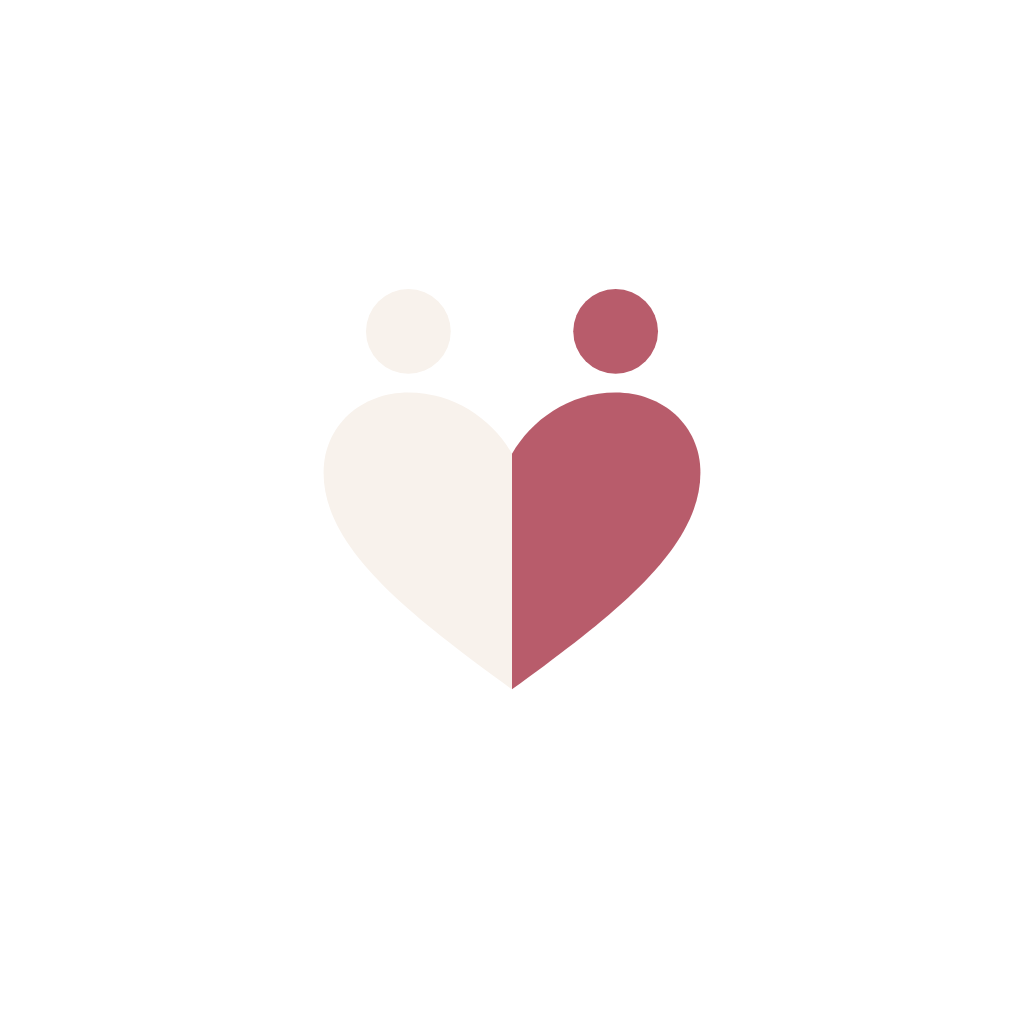
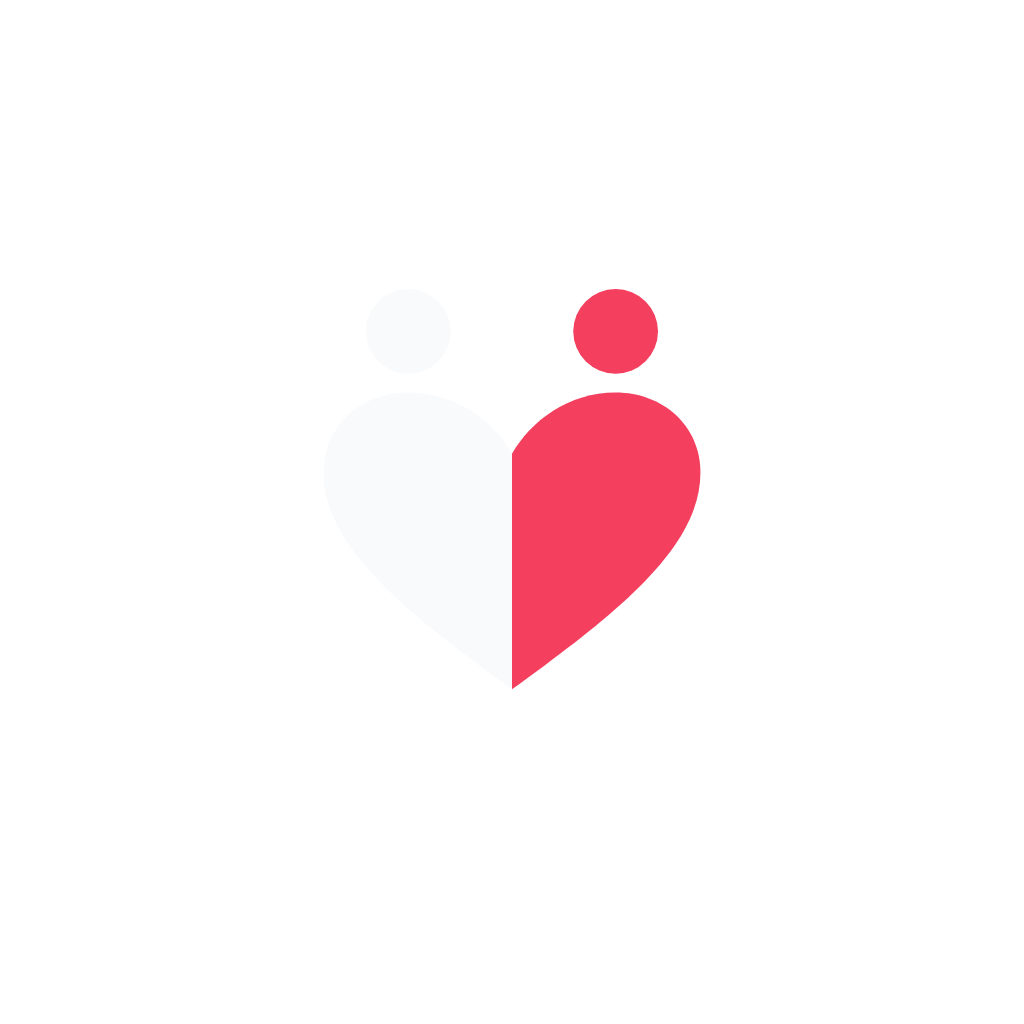
Paleta "Azul profundo" e novo slogan
- theme.ts: azul profundo #0B2545 (principal), azul moderno #1E40AF,
  rosa #F43F5E (destaque), azul claro #E0E7FF, cinza claro #F8FAFC, grafite #1F2937
- Tela de entrada com bloco azul, logo claro e CTA rosa
- Ícone, ícone adaptativo, splash e favicon regenerados no azul
- Slogan: "Pessoas que constroem mais juntas."

Claude-Session: https://claude.ai/code/session_01GeHcTz7jadpzUnfAnvnmB9

Changed region(s): [[0.5, 0.2812, 0.6875, 0.6875]]

diff --git a/apps/mobile/src/components/SwipeDeck.tsx b/apps/mobile/src/components/SwipeDeck.tsx
@@ -73,10 +73,10 @@ export const SwipeDeck = forwardRef<SwipeDeckHandle, Props>(function SwipeDeck({
         >
           <Card c={top} urls={urls} mine={myInterests} />
           <Animated.View style={[styles.stamp, styles.stampLike, { opacity: likeOpacity }]}>
-            <Text style={[styles.stampText, { color: palette.marfim }]}>CURTIR</Text>
+            <Text style={[styles.stampText, { color: palette.claro }]}>CURTIR</Text>
           </Animated.View>
           <Animated.View style={[styles.stamp, styles.stampPass, { opacity: passOpacity }]}>
-            <Text style={[styles.stampText, { color: palette.marfim }]}>PASSAR</Text>
+            <Text style={[styles.stampText, { color: palette.claro }]}>PASSAR</Text>
           </Animated.View>
         </Animated.View>
       ) : null}
@@ -161,34 +161,34 @@ const styles = StyleSheet.create({
   card: { borderRadius: radius.lg, overflow: 'hidden' },
   info: {
     position: 'absolute', left: 0, right: 0, bottom: 0, padding: space.xl, gap: space.xs,
-    backgroundColor: 'rgba(46,14,20,0.66)',
+    backgroundColor: 'rgba(11,37,69,0.66)',
   },
-  name: { color: palette.marfim, fontSize: 30, fontFamily: fonts.display },
-  comp: { color: palette.marfim, fontSize: 14, fontFamily: fonts.medium },
-  highlight: { backgroundColor: palette.marfim, color: palette.vinho, fontFamily: fonts.bold },
-  meta: { color: 'rgba(248,242,236,0.85)', fontSize: 13, fontFamily: fonts.medium },
+  name: { color: palette.claro, fontSize: 30, fontFamily: fonts.display },
+  comp: { color: palette.claro, fontSize: 14, fontFamily: fonts.medium },
+  highlight: { backgroundColor: palette.claro, color: palette.azul, fontFamily: fonts.bold },
+  meta: { color: 'rgba(248,250,252,0.85)', fontSize: 13, fontFamily: fonts.medium },
   reasons: { flexDirection: 'row', flexWrap: 'wrap', gap: space.xs, marginTop: space.xs },
   reason: {
-    color: palette.marfim, fontSize: 12, fontFamily: fonts.semibold, paddingHorizontal: space.sm, paddingVertical: 3,
+    color: palette.claro, fontSize: 12, fontFamily: fonts.semibold, paddingHorizontal: space.sm, paddingVertical: 3,
     borderRadius: radius.pill, borderWidth: 1, borderColor: 'rgba(255,255,255,0.5)', overflow: 'hidden',
   },
   interest: {
-    color: palette.vinho, backgroundColor: 'rgba(248,242,236,0.92)', fontSize: 12, fontFamily: fonts.semibold,
+    color: palette.azul, backgroundColor: 'rgba(248,250,252,0.92)', fontSize: 12, fontFamily: fonts.semibold,
     paddingHorizontal: space.sm + 2, paddingVertical: 4, borderRadius: radius.pill, overflow: 'hidden',
   },
   interestShared: { backgroundColor: palette.rosa, color: palette.white },
-  bio: { color: 'rgba(248,242,236,0.92)', fontSize: 14, fontFamily: fonts.regular, marginTop: space.xs },
+  bio: { color: 'rgba(248,250,252,0.92)', fontSize: 14, fontFamily: fonts.regular, marginTop: space.xs },
   bubble: {
     position: 'absolute', top: space.xl, left: space.lg, right: space.lg, padding: space.md, gap: 2,
-    backgroundColor: palette.marfim, borderRadius: radius.md, borderBottomLeftRadius: 4,
+    backgroundColor: palette.claro, borderRadius: radius.md, borderBottomLeftRadius: 4,
     shadowColor: '#000', shadowOpacity: 0.2, shadowRadius: 8, shadowOffset: { width: 0, height: 3 }, elevation: 4,
   },
   bubbleLabel: { color: palette.rosa, fontSize: 12, fontFamily: fonts.semibold },
-  bubbleText: { color: palette.vinhoEscuro, fontSize: 16, fontFamily: fonts.medium, lineHeight: 21 },
+  bubbleText: { color: palette.grafite, fontSize: 16, fontFamily: fonts.medium, lineHeight: 21 },
   dots: { position: 'absolute', top: space.md, left: space.md, right: space.md, flexDirection: 'row', gap: 4 },
   dot: { flex: 1, height: 3, borderRadius: 2 },
   stamp: { position: 'absolute', top: 48, borderWidth: 4, borderRadius: radius.sm, paddingHorizontal: space.md, paddingVertical: space.xs },
-  stampLike: { left: 24, borderColor: palette.marfim, backgroundColor: 'rgba(107,30,41,0.85)', transform: [{ rotate: '-14deg' }] },
-  stampPass: { right: 24, borderColor: palette.marfim, backgroundColor: 'rgba(46,14,20,0.7)', transform: [{ rotate: '14deg' }] },
+  stampLike: { left: 24, borderColor: palette.claro, backgroundColor: 'rgba(11,37,69,0.85)', transform: [{ rotate: '-14deg' }] },
+  stampPass: { right: 24, borderColor: palette.claro, backgroundColor: 'rgba(11,37,69,0.7)', transform: [{ rotate: '14deg' }] },
   stampText: { fontSize: 28, fontFamily: fonts.bold, letterSpacing: 2 },
 });

diff --git a/apps/mobile/src/components/MatchModal.tsx b/apps/mobile/src/components/MatchModal.tsx
@@ -32,9 +32,9 @@ export function MatchModal({ who, photoUrl, myPhotoUrl, onChat, onClose }: {
 
         <View style={{ alignSelf: 'stretch', gap: space.md, marginTop: space.md }}>
           <Button title={brand.matchSend} onPress={onChat}
-            style={{ backgroundColor: palette.marfim }} textColor={palette.vinho} />
+            style={{ backgroundColor: palette.claro }} textColor={palette.azul} />
           <Button title={brand.matchContinue} variant="ghost" onPress={onClose}
-            style={{ borderColor: 'rgba(248,242,236,0.45)' }} textColor={palette.marfim} />
+            style={{ borderColor: 'rgba(248,250,252,0.45)' }} textColor={palette.claro} />
         </View>
       </View>
     </Modal>
@@ -43,21 +43,21 @@ export function MatchModal({ who, photoUrl, myPhotoUrl, onChat, onClose }: {
 
 const styles = StyleSheet.create({
   backdrop: {
-    flex: 1, backgroundColor: 'rgba(107,30,41,0.97)', alignItems: 'center', justifyContent: 'center',
+    flex: 1, backgroundColor: 'rgba(11,37,69,0.97)', alignItems: 'center', justifyContent: 'center',
     padding: space.xxl, gap: space.sm,
   },
   photos: { flexDirection: 'row', marginBottom: space.xl, alignItems: 'center' },
   photo: {
-    width: 130, height: 170, borderRadius: radius.md, borderWidth: 4, borderColor: palette.marfim,
-    backgroundColor: palette.vinhoEscuro,
+    width: 130, height: 170, borderRadius: radius.md, borderWidth: 4, borderColor: palette.claro,
+    backgroundColor: palette.grafite,
   },
   badge: {
     position: 'absolute', left: 88, bottom: -26, // centro da dupla de fotos (130 + 130 - 28) / 2 - 28
-    width: 56, height: 56, borderRadius: 28, backgroundColor: palette.vinho,
-    alignItems: 'center', justifyContent: 'center', borderWidth: 3, borderColor: palette.marfim,
+    width: 56, height: 56, borderRadius: 28, backgroundColor: palette.azul,
+    alignItems: 'center', justifyContent: 'center', borderWidth: 3, borderColor: palette.claro,
   },
-  title: { color: palette.marfim, fontSize: 38, fontFamily: fonts.display, textAlign: 'center' },
-  subtitle: { color: palette.marfim, fontSize: 18, fontFamily: fonts.semibold, textAlign: 'center' },
-  cta: { color: 'rgba(248,242,236,0.8)', fontSize: 15, fontFamily: fonts.regular, textAlign: 'center' },
-  common: { color: palette.champanhe, fontSize: 13, fontFamily: fonts.semibold, textAlign: 'center', marginTop: space.sm },
+  title: { color: palette.claro, fontSize: 38, fontFamily: fonts.display, textAlign: 'center' },
+  subtitle: { color: palette.claro, fontSize: 18, fontFamily: fonts.semibold, textAlign: 'center' },
+  cta: { color: 'rgba(248,250,252,0.8)', fontSize: 15, fontFamily: fonts.regular, textAlign: 'center' },
+  common: { color: palette.azulClaro, fontSize: 13, fontFamily: fonts.semibold, textAlign: 'center', marginTop: space.sm },
 });

diff --git a/apps/mobile/src/theme.ts b/apps/mobile/src/theme.ts
@@ -1,52 +1,54 @@
-// Design tokens — identidade ConMatch: vinho, rosa antigo, champanhe e marfim.
+// Design tokens — identidade ConMatch, opção "Azul profundo": confiança, foco e modernidade.
+// Azul profundo como base, rosa como destaque (o lado romântico), azul claro e cinza como fundo.
 // Títulos em Playfair Display, interface em Inter (carregadas em app/_layout.tsx).
 import { useColorScheme } from 'react-native';
 
 export const palette = {
-  vinho: '#6B1E29',        // principal
-  rosa: '#B85C6B',         // rosa antigo
-  champanhe: '#C9A89A',
-  marfim: '#F8F2EC',       // fundo
-  vinhoEscuro: '#2E0E14',  // texto
+  azul: '#0B2545',         // azul profundo — principal
+  azulModerno: '#1E40AF',  // secundária
+  rosa: '#F43F5E',         // destaque
+  azulClaro: '#E0E7FF',    // fundo de chips e áreas de apoio
+  claro: '#F8FAFC',        // cinza claro — superfície / texto sobre azul
+  grafite: '#1F2937',      // texto
   white: '#FFFFFF',
 };
 
 export const light = {
-  bg: palette.marfim,
+  bg: palette.claro,
   surface: palette.white,
-  surfaceAlt: '#F1E6DD',
-  text: palette.vinhoEscuro,
-  textMuted: '#7A5A5F',
-  border: '#E6D6CC',
-  primary: palette.vinho,
-  onPrimary: palette.marfim,
+  surfaceAlt: palette.azulClaro,
+  text: palette.grafite,
+  textMuted: '#4B5563',
+  border: '#D6DEF0',
+  primary: palette.azul,
+  onPrimary: palette.white,
   accent: palette.rosa,
   onAccent: palette.white,
-  chip: '#F3E4E1',
-  onChip: palette.vinho,
-  like: palette.vinho,
-  star: palette.rosa,
-  pass: '#8C7B76',
-  danger: '#B3261E',
+  chip: palette.azulClaro,
+  onChip: palette.azul,
+  like: palette.rosa,
+  star: palette.azul,
+  pass: '#64748B',
+  danger: '#B91C1C',
 };
 
 export const dark: typeof light = {
-  bg: '#1E0A0E',
-  surface: palette.vinhoEscuro,
-  surfaceAlt: '#3A161D',
-  text: palette.marfim,
-  textMuted: '#C9A89A',
-  border: '#4A2028',
-  primary: palette.marfim,
-  onPrimary: palette.vinho,
-  accent: '#D27A88',
-  onAccent: palette.vinhoEscuro,
-  chip: '#4A2028',
-  onChip: palette.marfim,
-  like: '#E59AA6',
-  star: '#D27A88',
-  pass: '#C9A89A',
-  danger: '#F2B8B5',
+  bg: '#061629',
+  surface: palette.azul,
+  surfaceAlt: '#13315C',
+  text: palette.claro,
+  textMuted: '#B6C2DA',
+  border: '#1E3A66',
+  primary: palette.claro,
+  onPrimary: palette.azul,
+  accent: palette.rosa,
+  onAccent: palette.white,
+  chip: '#13315C',
+  onChip: palette.azulClaro,
+  like: palette.rosa,
+  star: palette.azulClaro,
+  pass: '#B6C2DA',
+  danger: '#FCA5A5',
 };
 
 export type Colors = typeof light;

diff --git a/apps/mobile/app/entrar.tsx b/apps/mobile/app/entrar.tsx
@@ -2,10 +2,10 @@ import { useState } from 'react';
 import { Alert, KeyboardAvoidingView, Platform, Pressable, ScrollView, Text, View } from 'react-native';
 import { SafeAreaView } from 'react-native-safe-area-context';
 import { BrandSymbol, Logo } from '@/components/Brand';
-import { Button, Field, H1, P, Screen } from '@/components/ui';
+import { Button, Field, H1, Screen } from '@/components/ui';
 import { supabase } from '@/lib/supabase';
 import { brand } from '@/brand';
-import { font, palette, space, useColors } from '@/theme';
+import { font, palette, radius, space, useColors } from '@/theme';
 
 export default function Entrar() {
   const c = useColors();
@@ -42,10 +42,10 @@ export default function Entrar() {
       <SafeAreaView style={{ flex: 1 }}>
         <KeyboardAvoidingView style={{ flex: 1 }} behavior={Platform.OS === 'ios' ? 'padding' : undefined}>
           <ScrollView contentContainerStyle={{ flexGrow: 1, justifyContent: 'center', padding: space.xl, gap: space.xl }}>
-            <View style={{ gap: space.md }}>
-              <BrandSymbol size={56} left={c.surface} right={palette.rosa} outline={c.primary} />
-              <Logo size={40} />
-              <P muted>{brand.tagline}</P>
+            <View style={{ gap: space.md, backgroundColor: palette.azul, borderRadius: radius.lg, padding: space.xl }}>
+              <BrandSymbol size={56} />
+              <Logo size={40} onDark />
+              <Text style={[font.body, { color: palette.azulClaro, lineHeight: 22 }]}>{brand.tagline}</Text>
             </View>
 
             <View style={{ gap: space.lg }}>
@@ -55,7 +55,7 @@ export default function Entrar() {
               <Field label="Senha" value={password} onChangeText={setPassword} secureTextEntry
                 autoComplete={mode === 'cadastro' ? 'new-password' : 'current-password'}
                 hint={mode === 'cadastro' ? 'Mínimo de 8 caracteres, com maiúscula, minúscula e número.' : undefined} />
-              <Button title={mode === 'cadastro' ? 'Criar conta' : 'Entrar'} onPress={submit} loading={busy} />
+              <Button title={mode === 'cadastro' ? 'Criar conta' : 'Entrar'} onPress={submit} loading={busy} variant="accent" />
               <Pressable accessibilityRole="button" onPress={() => setMode(mode === 'login' ? 'cadastro' : 'login')}>
                 <Text style={[font.body, { color: c.text, textAlign: 'center', textDecorationLine: 'underline' }]}>
                   {mode === 'login' ? 'Ainda não tem conta? Criar conta' : 'Já tem conta? Entrar'}

diff --git a/apps/mobile/src/components/Brand.tsx b/apps/mobile/src/components/Brand.tsx
@@ -8,7 +8,7 @@ import { fonts, palette, useColors } from '@/theme';
 const LEFT = 'M50 92 C28 76 10 62 10 46 C10 36 18 29 28 29 C38 29 46 35 50 42 Z';
 const RIGHT = 'M50 92 C72 76 90 62 90 46 C90 36 82 29 72 29 C62 29 54 35 50 42 Z';
 
-export function BrandSymbol({ size = 32, left = palette.marfim, right = palette.rosa, outline }: {
+export function BrandSymbol({ size = 32, left = palette.claro, right = palette.rosa, outline }: {
   size?: number; left?: string; right?: string; outline?: string;
 }) {
   const stroke = outline ? { stroke: outline, strokeWidth: 3 } : {};
@@ -25,13 +25,13 @@ export function BrandSymbol({ size = 32, left = palette.marfim, right = palette.
 /** "Con" reto + "Match" itálico + símbolo */
 export function Logo({ size = 24, color, onDark }: { size?: number; color?: string; onDark?: boolean }) {
   const c = useColors();
-  const fg = color ?? (onDark ? palette.marfim : c.primary);
+  const fg = color ?? (onDark ? palette.claro : c.primary);
   return (
     <View style={styles.row} accessible accessibilityRole="header" accessibilityLabel={brand.name}>
       <Text style={[styles.word, { color: fg, fontSize: size, fontFamily: fonts.display }]}>Con</Text>
       <Text style={[styles.word, { color: fg, fontSize: size, fontFamily: fonts.displayItalic }]}>Match</Text>
       <View style={{ marginLeft: size * 0.18, marginTop: -size * 0.3 }}>
-        <BrandSymbol size={size * 0.7} left={onDark ? palette.marfim : c.surface} right={palette.rosa}
+        <BrandSymbol size={size * 0.7} left={onDark ? palette.claro : c.surface} right={palette.rosa}
           outline={onDark ? undefined : fg} />
       </View>
     </View>

diff --git a/apps/mobile/app/(tabs)/conexoes.tsx b/apps/mobile/app/(tabs)/conexoes.tsx
@@ -65,7 +65,7 @@ export default function Conexoes() {
 
 const styles = StyleSheet.create({
   card: { flex: 1, aspectRatio: 3 / 4, borderRadius: radius.md, overflow: 'hidden', maxWidth: '48.5%' },
-  caption: { position: 'absolute', left: 0, right: 0, bottom: 0, padding: space.md, backgroundColor: 'rgba(46,14,20,0.6)' },
-  name: { color: palette.marfim, fontSize: 18, fontFamily: fonts.display },
-  comp: { color: 'rgba(248,242,236,0.85)', fontSize: 12, fontFamily: fonts.medium },
+  caption: { position: 'absolute', left: 0, right: 0, bottom: 0, padding: space.md, backgroundColor: 'rgba(11,37,69,0.6)' },
+  name: { color: palette.claro, fontSize: 18, fontFamily: fonts.display },
+  comp: { color: 'rgba(248,250,252,0.85)', fontSize: 12, fontFamily: fonts.medium },
 });

diff --git a/apps/mobile/src/components/StarMessageModal.tsx b/apps/mobile/src/components/StarMessageModal.tsx
@@ -81,7 +81,7 @@ export function StarMessageModal({ who, onSend, onClose }: {
 }
 
 const styles = StyleSheet.create({
-  backdrop: { flex: 1, justifyContent: 'flex-end', backgroundColor: 'rgba(46,14,20,0.55)' },
+  backdrop: { flex: 1, justifyContent: 'flex-end', backgroundColor: 'rgba(11,37,69,0.55)' },
   sheet: {
     borderTopLeftRadius: radius.lg, borderTopRightRadius: radius.lg,
     padding: space.xl, paddingBottom: space.xxl, gap: space.md,

diff --git a/apps/mobile/src/brand.ts b/apps/mobile/src/brand.ts
@@ -1,7 +1,7 @@
 // Marca e textos centralizados — trocar o nome do app é editar este arquivo + app.json.
 export const brand = {
   name: 'ConMatch',
-  tagline: 'Pessoas que compartilham mais.',
+  tagline: 'Pessoas que constroem mais juntas.',
   matchTitle: 'Deu ConMatch!',
   matchSubtitle: 'Vocês querem se conhecer.',
   matchCta: 'Ambições parecidas. Agora é com vocês.',

diff --git a/brand/descricao-lojas.md b/brand/descricao-lojas.md
@@ -1,7 +1,7 @@
 # ConMatch — textos para as lojas
 
 **Nome:** ConMatch
-**Subtítulo (App Store, até 30):** Pessoas que compartilham mais
+**Subtítulo (App Store, até 30):** Pessoas que constroem juntas
 **Descrição curta (Google Play, até 80):** Conheça quem estuda para concurso, vestibular, OAB ou residência como você.
 
 ## Descrição completa
@@ -32,6 +32,6 @@ O ConMatch é o app de relacionamento para quem está se preparando para concurs
 Grátis: 20 curtidas e 5 curtidas com mensagem por dia, matches e conversas ilimitadas.
 Premium (R$ 24,90/mês): curtidas ilimitadas, 20 curtidas com mensagem por dia e veja quem curtiu você.
 
-ConMatch. Pessoas que compartilham mais.
+ConMatch. Pessoas que constroem mais juntas.
 
 **Palavras-chave:** concurso, concurseiro, vestibular, OAB, residência, namoro, relacionamento, encontros, estudos, servidor público

diff --git a/README.md b/README.md
@@ -1,8 +1,10 @@
 # ConMatch — MVP
 
-App de relacionamento para quem estuda para concursos, vestibular, OAB e residência (18+). *Pessoas que compartilham mais.* Para trocar o nome, edite `apps/mobile/src/brand.ts` e `apps/mobile/app.json`.
+App de relacionamento para quem estuda para concursos, vestibular, OAB e residência (18+). *Pessoas que constroem mais juntas.* Para trocar o nome, edite `apps/mobile/src/brand.ts` e `apps/mobile/app.json`.
 
 > Deu match? **"Deu ConMatch! Vocês querem se conhecer."**
+
+**Identidade:** paleta *Azul profundo* — `#0B2545` principal, `#1E40AF` secundária, `#F43F5E` destaque (rosa), `#E0E7FF` fundo, `#F8FAFC` superfície, `#1F2937` texto. Títulos em Playfair Display, interface em Inter. Tokens em `apps/mobile/src/theme.ts`; símbolo e ícones em `brand/`.
 
 ## O que já está pronto
 
